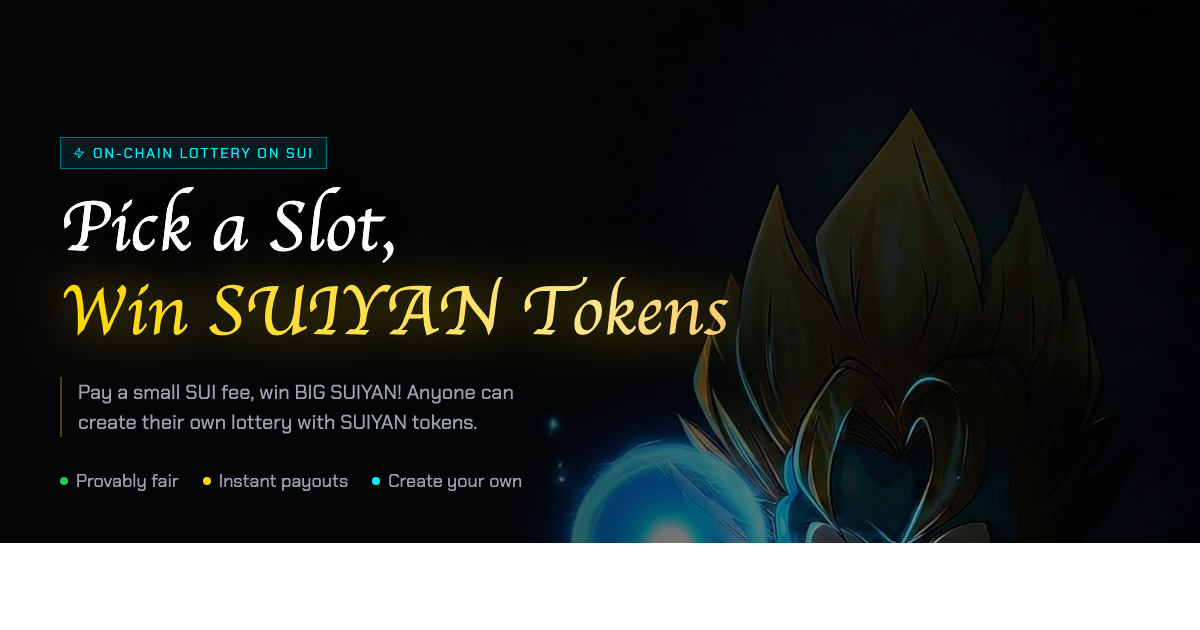
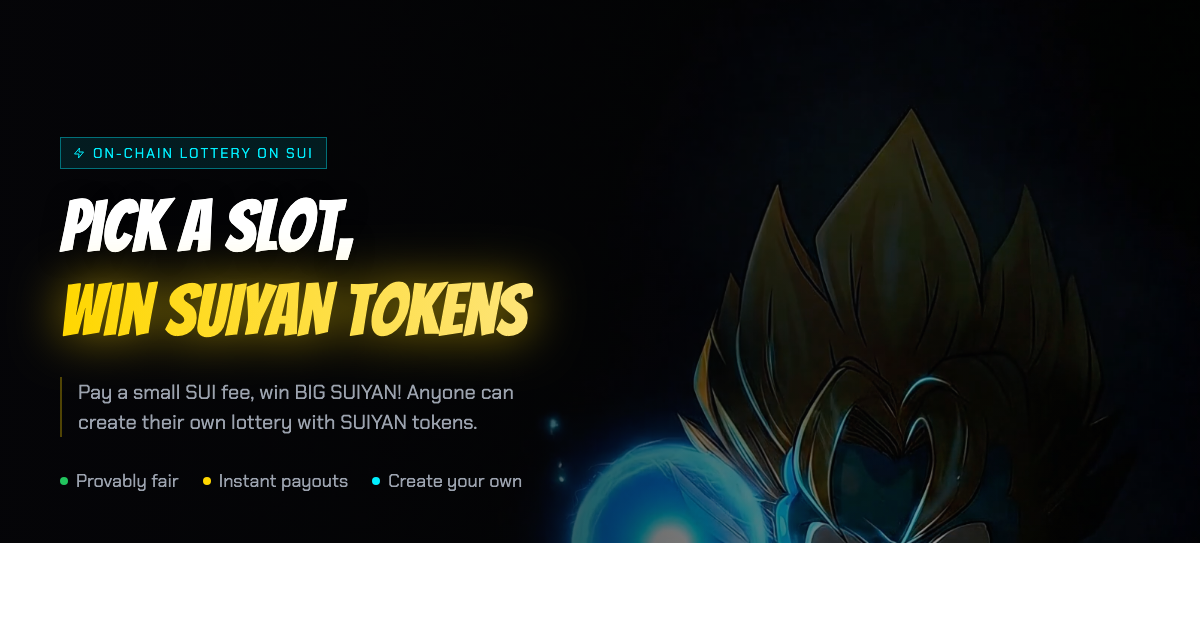
Fix OG image font loading with virtual-time-budget
- Add @import for fonts as backup
- Use --virtual-time-budget flag for Chrome headless to wait for fonts
- Bangers font now renders correctly

🤖 Generated with [Claude Code](https://claude.com/claude-code)

Changed region(s): [[0.0308, 0.3016, 0.6167, 0.573]]

diff --git a/frontend/scripts/generate-og.html b/frontend/scripts/generate-og.html
@@ -6,6 +6,8 @@
   <link rel="preconnect" href="https://fonts.gstatic.com" crossorigin>
   <link href="https://fonts.googleapis.com/css2?family=Bangers&family=Chakra+Petch:wght@400;600;700&display=swap" rel="stylesheet">
   <style>
+    @import url('https://fonts.googleapis.com/css2?family=Bangers&family=Chakra+Petch:wght@400;600;700&display=swap');
+
     * {
       margin: 0;
       padding: 0;
@@ -123,6 +125,12 @@
     .dot-gold { background: #FFD700; }
     .dot-cyan { background: #00F0FF; }
   </style>
+  <script>
+    // Wait for fonts to load
+    document.fonts.ready.then(function() {
+      console.log('Fonts loaded');
+    });
+  </script>
 </head>
 <body>
   <div class="container">
